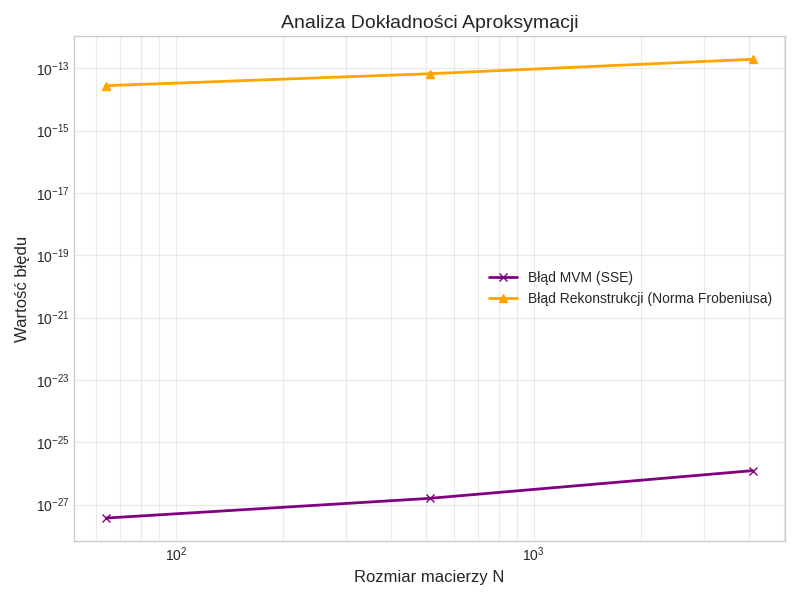
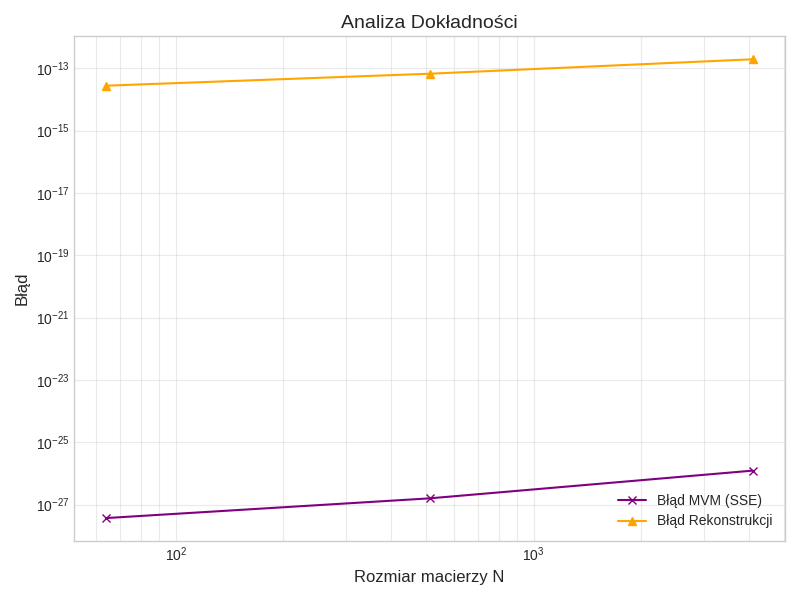
Added curve fitting in plots (alpha*N^beta)

diff --git a/lab3/plot_results.py b/lab3/plot_results.py
@@ -2,38 +2,70 @@ import pandas as pd
 import matplotlib.pyplot as plt
 import numpy as np
 import os
+from scipy.optimize import curve_fit
+
+# Definicja funkcji modelowej: alpha * N^beta
+def power_law(x, alpha, beta):
+    return alpha * np.power(x, beta)
+
+def fit_and_plot(ax, x_data, y_data, color, label_prefix):
+    """
+    Funkcja pomocnicza: liczy dopasowanie i rysuje linię trendu
+    """
+    try:
+        # Dopasowanie krzywej
+        popt, pcov = curve_fit(power_law, x_data, y_data)
+        alpha, beta = popt
+        
+        # Generowanie punktów do gładkiej linii
+        x_fit = np.linspace(min(x_data), max(x_data), 100)
+        y_fit = power_law(x_fit, alpha, beta)
+        
+        # Rysowanie linii dopasowania
+        ax.plot(x_fit, y_fit, '--', color=color, alpha=0.8, 
+                label=f'{label_prefix} Fit: $\\beta={beta:.3f}$')
+        
+        return alpha, beta
+    except Exception as e:
+        print(f"Nie udało się dopasować funkcji dla {label_prefix}: {e}")
+        return None, None
 
 def plot_results():
-    # Sprawdzenie czy plik istnieje
     if not os.path.exists('results.csv'):
         print("Błąd: Nie znaleziono pliku 'results.csv'.")
-        print("Uruchom najpierw program w C++, aby wygenerować dane.")
         return
 
-    # Wczytanie danych
     try:
         df = pd.read_csv('results.csv')
+        df = df.sort_values('N') # Sortowanie dla poprawnego rysowania linii
     except Exception as e:
-        print(f"Błąd podczas wczytywania CSV: {e}")
+        print(f"Błąd wczytywania CSV: {e}")
         return
 
-    # Ustawienie stylu
     plt.style.use('seaborn-v0_8-whitegrid')
 
     # ---------------------------------------------------------
-    # Wykres 1: Czas wykonania (Time Complexity)
+    # Wykres 1: Czas wykonania z dopasowaniem (Time Complexity)
     # ---------------------------------------------------------
-    plt.figure(figsize=(8, 6))
-    plt.plot(df['N'], df['Time_Compression'], 'o-', label='Kompresja (Compression)', linewidth=2)
-    plt.plot(df['N'], df['Time_MVM'], 's-', label='Mnożenie MVM (MVM Time)', linewidth=2)
+    fig, ax = plt.subplots(figsize=(8, 6))
     
-    plt.xscale('log')
-    plt.yscale('log')
-    plt.xlabel('Rozmiar macierzy N (liczba wierszy)', fontsize=12)
-    plt.ylabel('Czas [s]', fontsize=12)
-    plt.title('Czas wykonania vs Rozmiar Problemu', fontsize=14)
-    plt.legend()
-    plt.grid(True, which="both", ls="-", alpha=0.4)
+    # Dane pomiarowe
+    ax.plot(df['N'], df['Time_Compression'], 'o', label='Kompresja (pomiary)', alpha=0.6)
+    ax.plot(df['N'], df['Time_MVM'], 's', color='orange', label='MVM (pomiary)', alpha=0.6)
+    
+    # Dopasowanie funkcji dla MVM Time
+    fit_and_plot(ax, df['N'], df['Time_MVM'], 'darkorange', 'MVM Time')
+    
+    # Dopasowanie funkcji dla Kompresji (opcjonalnie)
+    fit_and_plot(ax, df['N'], df['Time_Compression'], 'blue', 'Kompresja')
+
+    ax.set_xscale('log')
+    ax.set_yscale('log')
+    ax.set_xlabel('Rozmiar macierzy N', fontsize=12)
+    ax.set_ylabel('Czas [s]', fontsize=12)
+    ax.set_title('Czas wykonania vs Rozmiar Problemu', fontsize=14)
+    ax.legend()
+    ax.grid(True, which="both", ls="-", alpha=0.4)
     
     plt.tight_layout()
     plt.savefig('time_complexity.png')
@@ -41,23 +73,27 @@ def plot_results():
     plt.close()
 
     # ---------------------------------------------------------
-    # Wykres 2: Złożoność Obliczeniowa (FLOPs)
+    # Wykres 2: Złożoność FLOPs z dopasowaniem
     # ---------------------------------------------------------
-    plt.figure(figsize=(8, 6))
-    plt.plot(df['N'], df['MVM_FLOPs'], 'o-', color='green', label='MVM FLOPs (Teoretyczne)', linewidth=2)
-    plt.plot(df['N'], df['MMM_FLOPs'], 'd-', color='red', label='MMM A*A FLOPs (Teoretyczne)', linewidth=2)
+    fig, ax = plt.subplots(figsize=(8, 6))
+    
+    # Dane teoretyczne
+    ax.plot(df['N'], df['MVM_FLOPs'], 'o', color='green', label='MVM FLOPs (Dane)', alpha=0.6)
+    
+    # Dopasowanie funkcji dla MVM FLOPs
+    alpha, beta = fit_and_plot(ax, df['N'], df['MVM_FLOPs'], 'darkgreen', 'MVM FLOPs')
+    
+    #MMM (dla porównania)
+    ax.plot(df['N'], df['MMM_FLOPs'], 'd', color='red', label='MMM FLOPs (Dane)', alpha=0.6)
+    fit_and_plot(ax, df['N'], df['MMM_FLOPs'], 'darkred', 'MMM FLOPs')
 
-    # Linie referencyjne O(N)
-    ref_n = df['N'] * (df['MVM_FLOPs'].iloc[0] / df['N'].iloc[0])
-    plt.plot(df['N'], ref_n, '--', color='gray', alpha=0.5, label='Referencja O(N)')
-
-    plt.xscale('log')
-    plt.yscale('log')
-    plt.xlabel('Rozmiar macierzy N', fontsize=12)
-    plt.ylabel('Liczba operacji (FLOPs)', fontsize=12)
-    plt.title('Złożoność Obliczeniowa (FLOPs)', fontsize=14)
-    plt.legend()
-    plt.grid(True, which="both", ls="-", alpha=0.4)
+    ax.set_xscale('log')
+    ax.set_yscale('log')
+    ax.set_xlabel('Rozmiar macierzy N', fontsize=12)
+    ax.set_ylabel('Liczba operacji (FLOPs)', fontsize=12)
+    ax.set_title(f'Złożoność Obliczeniowa\nDla MVM: $\\alpha \\approx {alpha:.2e}, \\beta \\approx {beta:.3f}$', fontsize=14)
+    ax.legend()
+    ax.grid(True, which="both", ls="-", alpha=0.4)
 
     plt.tight_layout()
     plt.savefig('flops_complexity.png')
@@ -65,32 +101,25 @@ def plot_results():
     plt.close()
 
     # ---------------------------------------------------------
-    # Wykres 3: Analiza Błędów (Error Analysis)
+    # Wykres 3: Analiza Błędów (bez zmian)
     # ---------------------------------------------------------
-    # Sprawdzamy czy nowe kolumny istnieją (dla kompatybilności wstecznej)
-    if 'SSE_Error' in df.columns and 'Matrix_Diff_Norm' in df.columns:
+    if 'SSE_Error' in df.columns:
         plt.figure(figsize=(8, 6))
+        plt.plot(df['N'], df['SSE_Error'], 'x-', color='purple', label='Błąd MVM (SSE)')
+        if 'Matrix_Diff_Norm' in df.columns:
+            plt.plot(df['N'], df['Matrix_Diff_Norm'], '^-', color='orange', label='Błąd Rekonstrukcji')
         
-        # SSE Error (Suma Kwadratów Różnic dla wektora wynikowego)
-        plt.plot(df['N'], df['SSE_Error'], 'x-', color='purple', label='Błąd MVM (SSE)', linewidth=2)
-        
-        # Matrix Diff Norm (Norma Frobeniusa różnicy macierzy)
-        plt.plot(df['N'], df['Matrix_Diff_Norm'], '^-', color='orange', label='Błąd Rekonstrukcji (Norma Frobeniusa)', linewidth=2)
-
         plt.xscale('log')
-        plt.yscale('log') # Logarytmiczna, bo błędy mogą się różnić rzędami wielkości
+        plt.yscale('log')
         plt.xlabel('Rozmiar macierzy N', fontsize=12)
-        plt.ylabel('Wartość błędu', fontsize=12)
-        plt.title('Analiza Dokładności Aproksymacji', fontsize=14)
+        plt.ylabel('Błąd', fontsize=12)
+        plt.title('Analiza Dokładności', fontsize=14)
         plt.legend()
         plt.grid(True, which="both", ls="-", alpha=0.4)
-
         plt.tight_layout()
         plt.savefig('error_analysis.png')
         print("Zapisano: error_analysis.png")
         plt.close()
-    else:
-        print("Pominięto wykres błędów (brak kolumn SSE_Error/Matrix_Diff_Norm w CSV).")
 
 if __name__ == "__main__":
     plot_results()
